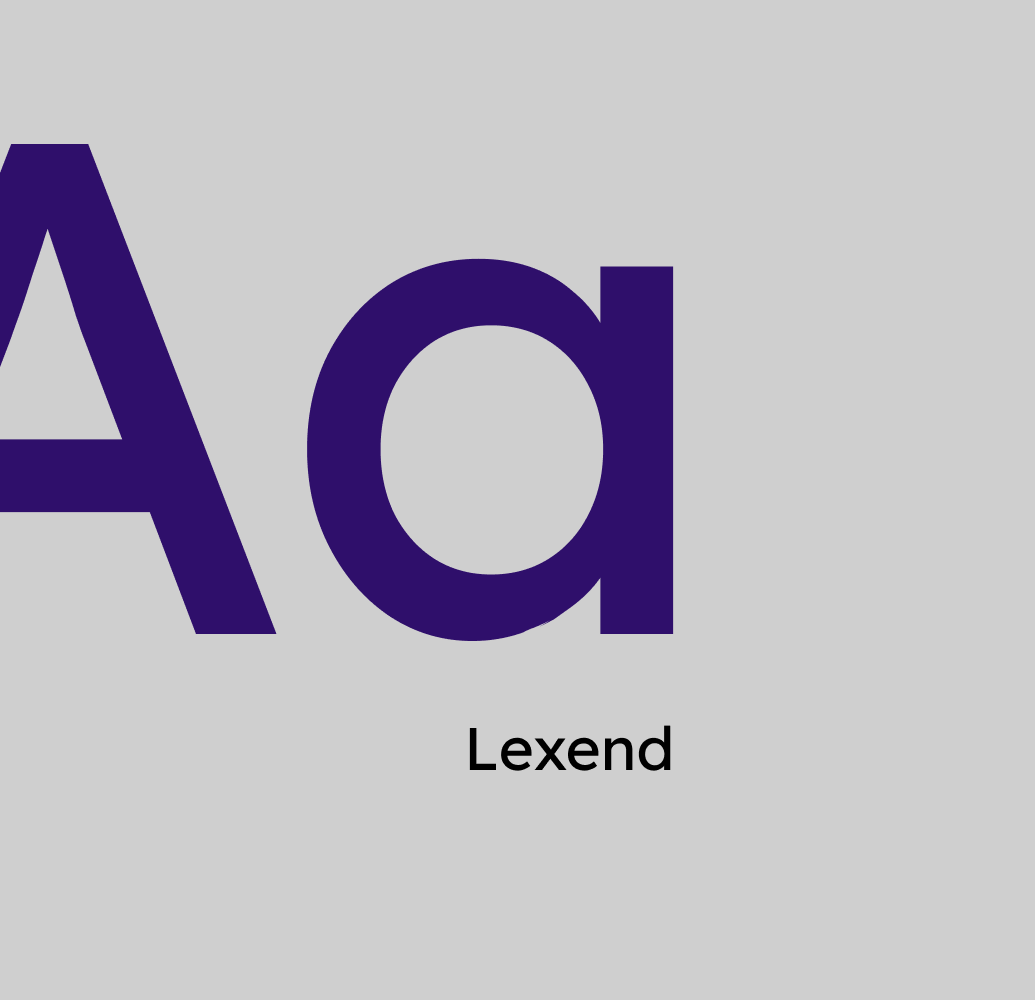
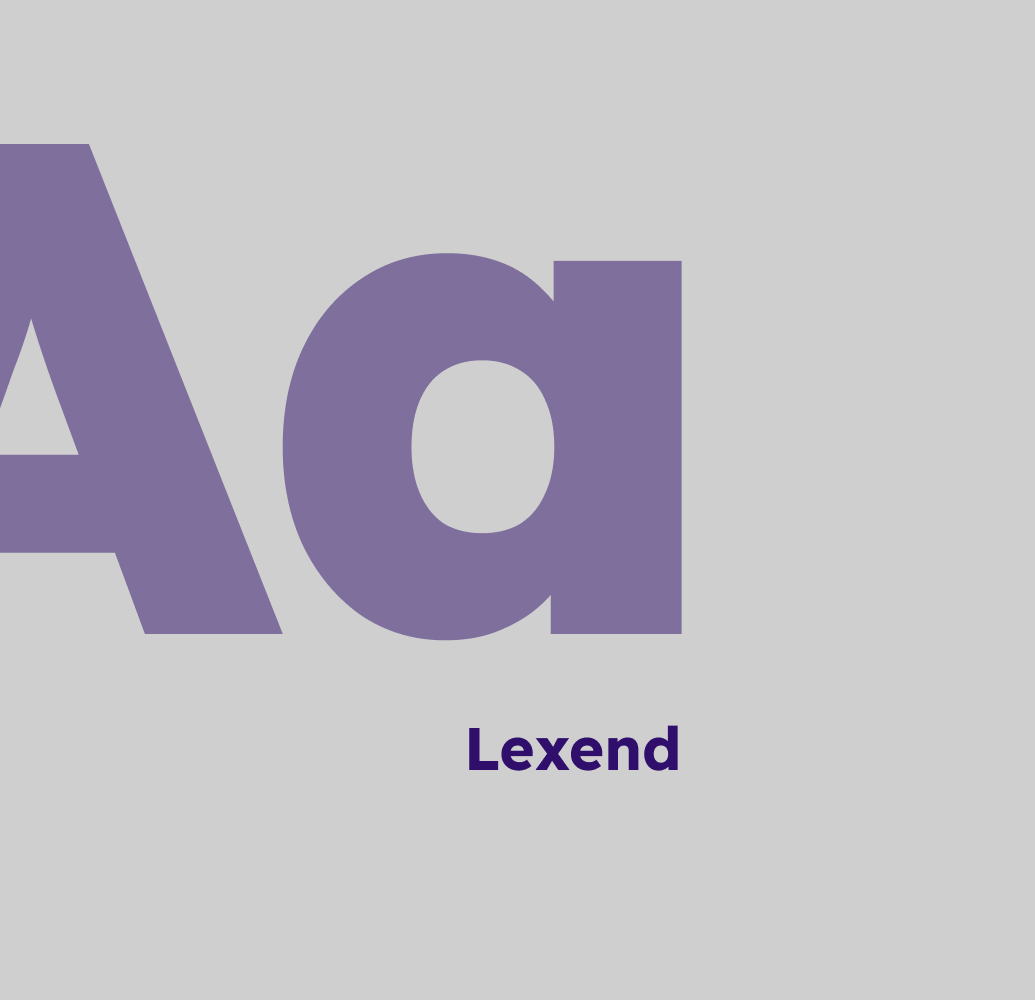
feat: add new media and update html

Changed region(s): [[0.2473, 0.248, 0.6802, 0.651], [0.0, 0.124, 0.2783, 0.651], [0.4329, 0.713, 0.6802, 0.775]]

diff --git a/projects/rockgo/index.html b/projects/rockgo/index.html
@@ -136,9 +136,12 @@
                 <div class="project__photos">
                     <img src="media/paleta-de-cores.png" alt="paleta de cores rockgo">
                 </div>
-                <div class="project__photos photo--half">
+                <div class="project__photos photo--half" data-aos="fade-right">
                     <img src="media/tipografia.png" alt="tipografia rockgo">
                     <img src="media/icones.png" alt="icones rockgo">
+                </div>
+                <div class="project__photos">
+                    <img src="media/simbolo-app.png" alt="ícone aplicativo rockgo">
                 </div>
             </article>
         </section>
